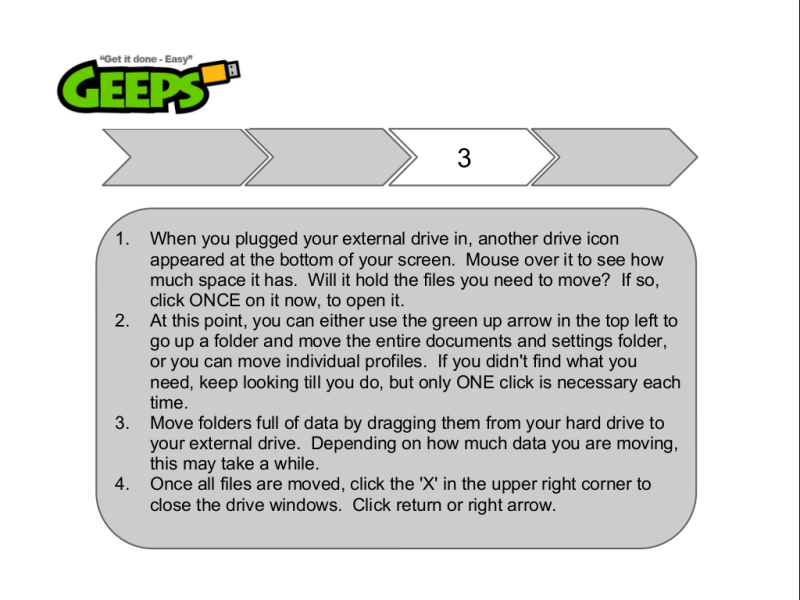
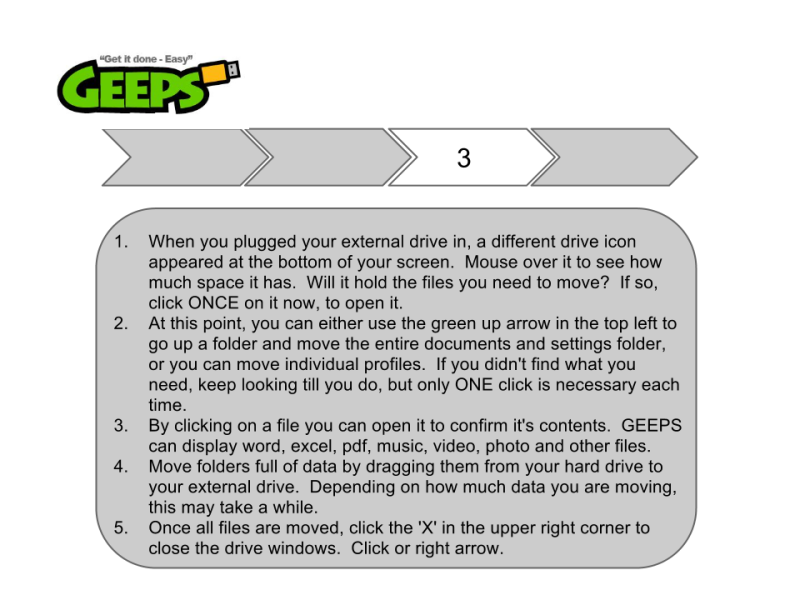
Instructions, help: New data

diff --git a/sfs/root/geeps/help.html b/sfs/root/geeps/help.html
@@ -1,11 +1,103 @@
-<html>
-<head>
-<title>Geeps Help</title>
-<script type="text/javascript">
-find();
-</script>
-</head>
-<body>
-<p>Lorem ipsum dolor sit ames.</p>
-</body>
-</html>
+<!DOCTYPE HTML PUBLIC "-//W3C//DTD HTML 4.0 Transitional//EN">
+<HTML>
+<HEAD>
+	<META HTTP-EQUIV="CONTENT-TYPE" CONTENT="text/html; charset=utf-8">
+	<title>Geeps Help</title>
+	<script type="text/javascript">
+	find();
+	</script>
+	<STYLE TYPE="text/css">
+	<!--
+		@page { size: 8.5in 11in; margin: 1in }
+		P { margin-bottom: 0.08in }
+	-->
+	</STYLE>
+</HEAD>
+<BODY LANG="cs-CZ" DIR="LTR">
+<P ALIGN=LEFT STYLE="margin-bottom: 0in"><FONT COLOR="#000000"><FONT FACE="ArialMT, serif"><FONT SIZE=4 STYLE="font-size: 15pt">GEEPS
+help information:</FONT></FONT></FONT></P>
+<P ALIGN=LEFT STYLE="margin-bottom: 0in"><BR>
+</P>
+<P ALIGN=LEFT STYLE="margin-bottom: 0in"><FONT COLOR="#000000"><FONT FACE="ArialMT, serif"><FONT SIZE=4 STYLE="font-size: 15pt">Introduction:</FONT></FONT></FONT></P>
+<P ALIGN=LEFT STYLE="margin-bottom: 0in"><FONT COLOR="#000000"><FONT FACE="ArialMT, serif"><FONT SIZE=4 STYLE="font-size: 15pt">GEEPS
+provides access to each drive that it sees defined on your computer.
+&nbsp;Because most Windows computers have more than one partition to
+the drive, you will see drives you did not know you had. &nbsp;These
+typically have emergency / rescue files on them or are configured as
+a Windows swap file. &nbsp;</FONT></FONT></FONT></P>
+<P ALIGN=LEFT STYLE="margin-bottom: 0in"><BR>
+</P>
+<P ALIGN=LEFT STYLE="margin-bottom: 0in"><FONT COLOR="#000000"><FONT FACE="ArialMT, serif"><FONT SIZE=4 STYLE="font-size: 15pt">Examining
+drive contents:</FONT></FONT></FONT></P>
+<P ALIGN=LEFT STYLE="margin-bottom: 0in"><FONT COLOR="#000000"><FONT FACE="ArialMT, serif"><FONT SIZE=4 STYLE="font-size: 15pt">The
+icons you will see in GEEPS don’t look like Windows, because they
+aren’t. &nbsp;However, folders are very easily recognized, as are
+most other file types. &nbsp;If you are not sure, click once on a
+file, and GEEPS will open it for you. &nbsp;GEEPS can open nearly any
+type of file, so you will be able to quickly see what this file
+contains and if you are interested in keeping it.</FONT></FONT></FONT></P>
+<P ALIGN=LEFT STYLE="margin-bottom: 0in"><BR>
+</P>
+<P ALIGN=LEFT STYLE="margin-bottom: 0in"><FONT COLOR="#000000"><FONT FACE="ArialMT, serif"><FONT SIZE=4 STYLE="font-size: 15pt">Moving
+files:</FONT></FONT></FONT></P>
+<P ALIGN=LEFT STYLE="margin-bottom: 0in"><FONT COLOR="#000000"><FONT FACE="ArialMT, serif"><FONT SIZE=4 STYLE="font-size: 15pt">When
+you plug an external USB drive in, a different icon with a USB symbol
+on it will show up to the right of the PC drives. &nbsp;This is where
+you will drag the files you want to save to. &nbsp;Click on it to
+open it. &nbsp;You can drag individual files, a folder of files, or
+folders of folders of files. &nbsp;Better to copy more files if in
+doubt, especially if your plan is to wipe the drive when you are
+done.</FONT></FONT></FONT></P>
+<P ALIGN=LEFT STYLE="margin-bottom: 0in"><BR>
+</P>
+<P ALIGN=LEFT STYLE="margin-bottom: 0in"><FONT COLOR="#000000"><FONT FACE="ArialMT, serif"><FONT SIZE=4 STYLE="font-size: 15pt">Wiping
+drives:</FONT></FONT></FONT></P>
+<P ALIGN=LEFT STYLE="margin-bottom: 0in"><FONT COLOR="#000000"><FONT FACE="ArialMT, serif"><FONT SIZE=4 STYLE="font-size: 15pt">Before
+using the wipe command, it is best to close the external drive
+window, remove the drive from the GEEPS computer and plug it into a
+pc or mac you want to move the data to. Confirm that you can copy
+files from it and that the files are as they should be. &nbsp;</FONT></FONT></FONT></P>
+<P ALIGN=LEFT STYLE="margin-bottom: 0in"><FONT COLOR="#000000"><FONT FACE="ArialMT, serif"><FONT SIZE=4 STYLE="font-size: 15pt">Now,
+with the external drive removed, go to the menu in the upper left of
+the GEEPS screen and select wipe drive. &nbsp;A message will ask you
+to select a drive to continue. &nbsp;Click on the drive that you want
+to wipe. &nbsp;If you want to wipe all of them, just do them
+sequentially. &nbsp;If your pc has partitions that don’t contain
+personal data and look like they might be system restore or swap
+drives, there is probably no need to wipe those drives.</FONT></FONT></FONT></P>
+<P ALIGN=LEFT STYLE="margin-bottom: 0in"><FONT COLOR="#000000"><FONT FACE="ArialMT, serif"><FONT SIZE=4 STYLE="font-size: 15pt">GEEPS
+writes to each sector of the drive, truly erasing data as opposed to
+removing data indexes, which hides data but someone that knows what
+they are doing can still retrieve your data. &nbsp;Because of this,
+wiping a drive can take some time. &nbsp;Please allow plenty of time
+for the operation to continue. &nbsp;GEEPs will return to the main
+screen after a wipe operation is completed, so as long as you see the
+wipe screen up, the system is still working.</FONT></FONT></FONT></P>
+<P ALIGN=LEFT STYLE="margin-bottom: 0in"><BR>
+</P>
+<P ALIGN=LEFT STYLE="margin-bottom: 0in"><FONT COLOR="#000000"><FONT FACE="ArialMT, serif"><FONT SIZE=4 STYLE="font-size: 15pt">Extras:</FONT></FONT></FONT></P>
+<P ALIGN=LEFT STYLE="margin-bottom: 0in"><FONT COLOR="#000000"><FONT FACE="ArialMT, serif"><FONT SIZE=4 STYLE="font-size: 15pt">GEEPS
+has a couple of extra features that can come in handy. &nbsp;One is a
+browser that allows you to access the internet if the pc running
+GEEPS is connected to the internet. &nbsp;A wired network will be
+connected to automatically in most cases. &nbsp;There is currently no
+way for you to enter wireless information in to allow GEEPS to
+connect to the internet wirelessly.</FONT></FONT></FONT></P>
+<P ALIGN=LEFT STYLE="margin-bottom: 0in"><BR>
+</P>
+<P ALIGN=LEFT STYLE="margin-bottom: 0in"><FONT COLOR="#000000"><FONT FACE="ArialMT, serif"><FONT SIZE=4 STYLE="font-size: 15pt">A
+console utility is also available for use by those that have some
+knowledge of Linux.</FONT></FONT></FONT></P>
+<P ALIGN=LEFT STYLE="margin-bottom: 0in"><BR>
+</P>
+<P ALIGN=LEFT STYLE="margin-bottom: 0in"><FONT COLOR="#000000"><FONT FACE="ArialMT, serif"><FONT SIZE=4 STYLE="font-size: 15pt">Other
+uses:</FONT></FONT></FONT></P>
+<P ALIGN=LEFT STYLE="margin-bottom: 0in"><FONT COLOR="#000000"><FONT FACE="ArialMT, serif"><FONT SIZE=4 STYLE="font-size: 15pt">GEEPS
+is very capable, and can be utilized for a variety of purposes
+related to gaining access to information on hard drives that cannot
+be accessed otherwise. &nbsp;Forgotten passwords, abandoned profiles
+and other types of issues can be easily resolved.</FONT></FONT></FONT></P>
+<P ALIGN=LEFT STYLE="margin-bottom: 0in"><BR>
+</P>
+</BODY>
+</HTML>
